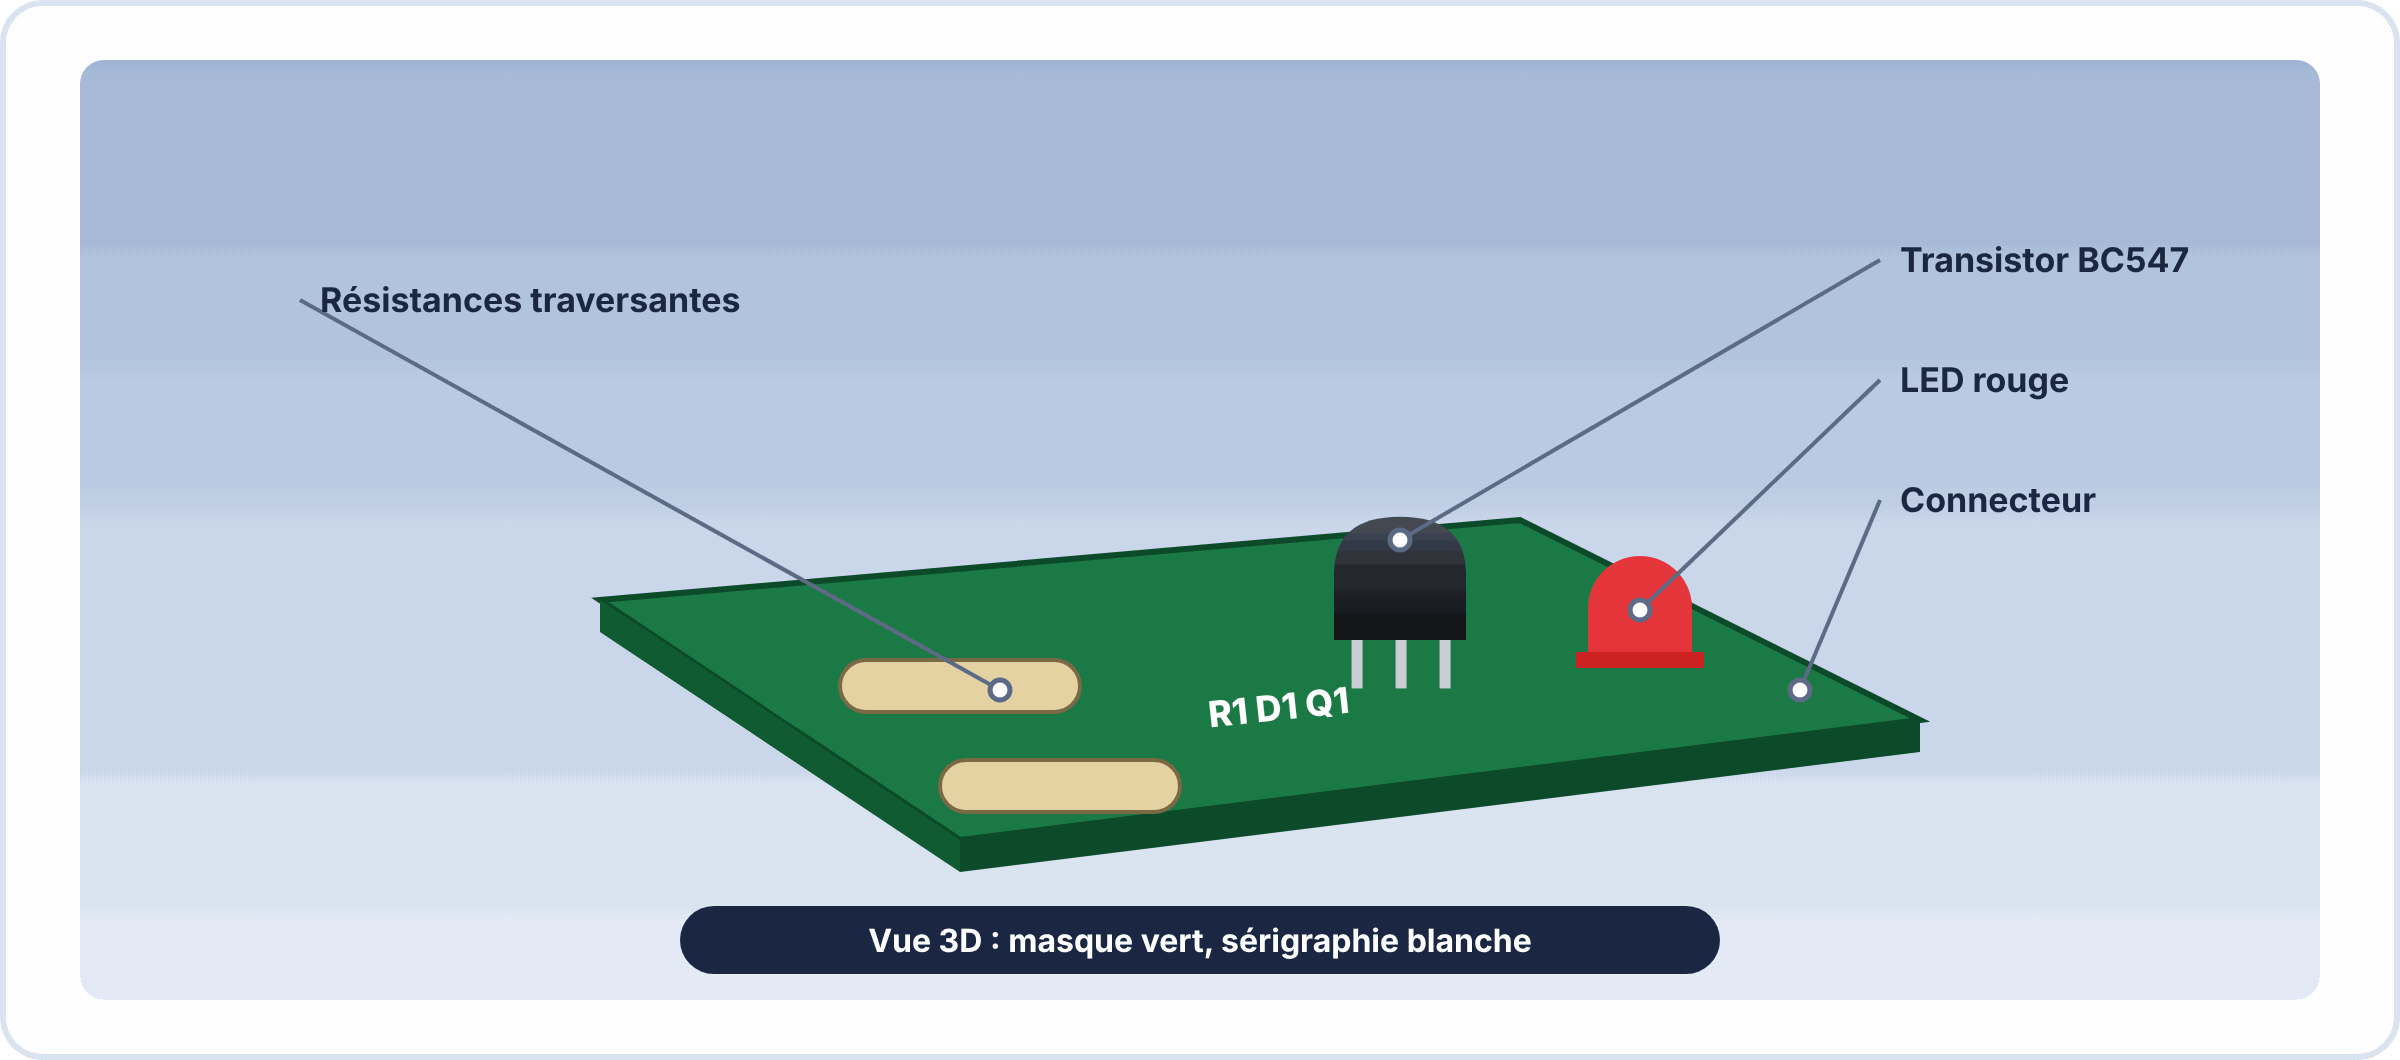
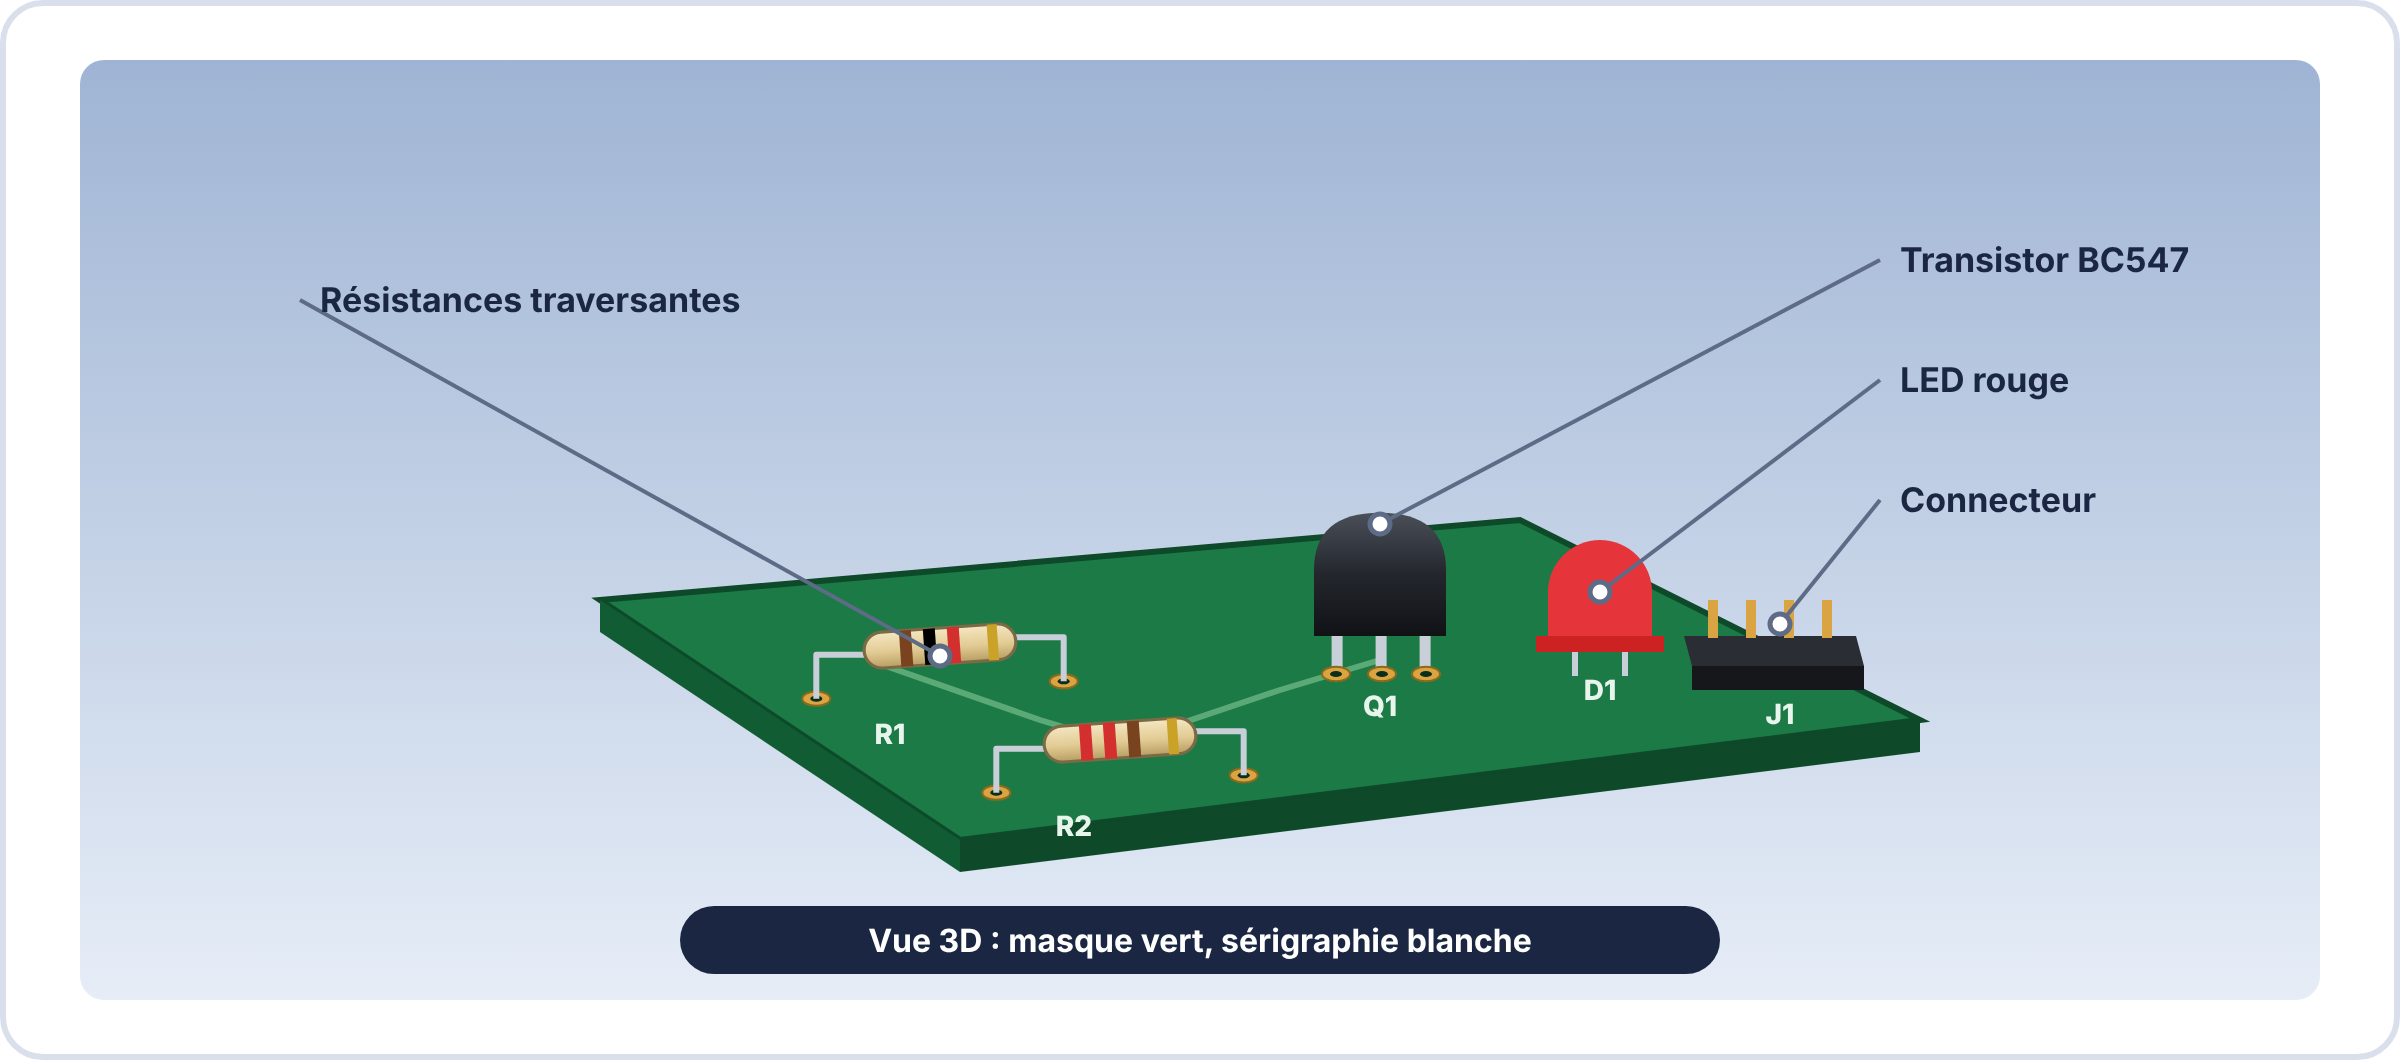
Vue 3D KiCad : résistances traversantes redessinées (corps cylindrique à bandes, pattes dans les trous), transistor/LED/connecteur à pattes dans la carte
Claude-Session: https://claude.ai/code/session_018Ln2Xo12prChdSPrkdSn9D

diff --git a/outils/illustrations-e2/figs_final.py b/outils/illustrations-e2/figs_final.py
@@ -79,15 +79,36 @@ def f_kicad_drc():
 
 
 def f_kicad_3d():
-    o = f'<rect x="40" y="30" width="1120" height="470" rx="12" fill="url(#bg3d)"/><defs><linearGradient id="bg3d" x1="0" y1="0" x2="0" y2="1"><stop offset="0" stop-color="#9fb4d4"/><stop offset="1" stop-color="#e6edf7"/></linearGradient></defs>'
+    o = f'<rect x="40" y="30" width="1120" height="470" rx="12" fill="url(#bg3d)"/><defs><linearGradient id="bg3d" x1="0" y1="0" x2="0" y2="1"><stop offset="0" stop-color="#9fb4d4"/><stop offset="1" stop-color="#e6edf7"/></linearGradient><linearGradient id="rbody" x1="0" y1="0" x2="0" y2="1"><stop offset="0" stop-color="#f4e7c3"/><stop offset=".55" stop-color="#e2cb93"/><stop offset="1" stop-color="#b79d62"/></linearGradient></defs>'
+    # carte (dessus + tranches)
     o += '<polygon points="300,300 760,260 960,360 480,420" fill="#1c7a46" stroke="#0e4a2a" stroke-width="3"/><polygon points="300,300 480,420 480,436 300,316" fill="#115c33"/><polygon points="480,420 960,360 960,376 480,436" fill="#0e4a2a"/>'
-    o += T(640, 360, "R1   D1   Q1", 18, 800, "#e8f5ec", extra='transform="rotate(-6 640 360)"')
-    def cyl(x, y, w, h, c): return f'<rect x="{x}" y="{y}" width="{w}" height="{h}" rx="{h/2}" fill="{c}" stroke="#7a6a45" stroke-width="2"/>'
-    o += cyl(420, 330, 120, 26, "#e6d3a3") + cyl(470, 380, 120, 26, "#e6d3a3")
-    o += g(700, 320, '<path d="M-30,0 L-30,-30 Q-30,-56 0,-56 Q30,-56 30,-30 L30,0 Z" fill="url(#black)"/><rect x="-22" y="0" width="5" height="22" fill="#c9cfd8"/><rect x="-2" y="0" width="5" height="22" fill="#c9cfd8"/><rect x="18" y="0" width="5" height="22" fill="#c9cfd8"/>', 1.1)
-    o += g(820, 330, '<path d="M-26,0 L-26,-26 A26,26 0 0 1 26,-26 L26,0 Z" fill="#e5353b"/><rect x="-32" y="-4" width="64" height="8" fill="#c22"/>', 1.0)
-    o += f'<rect x="860" y="300" width="80" height="30" fill="#222" transform="skewY(18)"/>' + "".join(f'<rect x="{868+i*17}" y="{302+i*0}" width="8" height="10" fill="#d9a441" transform="skewY(18)"/>' for i in range(4))
-    o += callout(700, 270, 940, 130, "Transistor BC547", "start", 17, bold=True) + callout(820, 305, 940, 190, "LED rouge", "start", 17, bold=True) + callout(500, 345, 150, 150, "Résistances traversantes", "start", 17, bold=True) + callout(900, 345, 940, 250, "Connecteur", "start", 17, bold=True)
+    # pistes (cuivre sous masque) et pastilles
+    o += '<g opacity=".55"><path d="M440,332 L520,360 L560,372" stroke="#8fd19e" stroke-width="3" fill="none"/><path d="M560,372 L640,345 L690,330" stroke="#8fd19e" stroke-width="3" fill="none"/></g>'
+    def hole(x, y): return f'<ellipse cx="{x}" cy="{y}" rx="7" ry="3.6" fill="#d9a441" stroke="#8a6a1c" stroke-width="1"/><ellipse cx="{x}" cy="{y}" rx="3" ry="1.5" fill="#0b2d1a"/>'
+    def resistor(cx, cy, ang, c1, c2, c3):
+        """résistance traversante : corps cylindrique + 2 pattes plongeant dans les trous"""
+        import math as m
+        dx, dy = m.cos(m.radians(ang)), m.sin(m.radians(ang))
+        L = 62; lift = 22
+        x1, y1, x2, y2 = cx - dx * L, cy - dy * L, cx + dx * L, cy + dy * L
+        r = hole(x1, y1) + hole(x2, y2)
+        r += f'<path d="M{x1},{y1} V{y1-lift} H{x1+dx*24} M{x2},{y2} V{y2-lift} H{x2-dx*24}" stroke="#c9cfd8" stroke-width="3" fill="none" stroke-linejoin="round"/>'
+        r += f'<g transform="translate({cx},{cy-lift}) rotate({ang})"><rect x="-38" y="-9" width="76" height="18" rx="9" fill="url(#rbody)" stroke="#7a6a45" stroke-width="1.6"/>'
+        for bx, col in ((-20, c1), (-8, c2), (4, c3)): r += f'<rect x="{bx}" y="-9" width="6" height="18" fill="{col}"/>'
+        r += '<rect x="24" y="-9" width="5" height="18" fill="#c9a227"/></g>'
+        return r
+    o += resistor(470, 345, -4, "#7a4320", "#000", "#d32f2f") + resistor(560, 392, -4, "#d32f2f", "#d32f2f", "#7a4320")
+    # transistor TO-92 (pattes dans la carte)
+    o += g(690, 318, '<path d="M-30,0 L-30,-30 Q-30,-56 0,-56 Q30,-56 30,-30 L30,0 Z" fill="url(#black)"/><rect x="-22" y="0" width="5" height="16" fill="#c9cfd8"/><rect x="-2" y="0" width="5" height="16" fill="#c9cfd8"/><rect x="18" y="0" width="5" height="16" fill="#c9cfd8"/>', 1.1)
+    o += hole(668, 337) + hole(691, 337) + hole(713, 337)
+    # LED rouge
+    o += g(800, 322, '<path d="M-26,0 L-26,-26 A26,26 0 0 1 26,-26 L26,0 Z" fill="#e5353b"/><rect x="-32" y="-4" width="64" height="8" fill="#c22"/><rect x="-14" y="4" width="3" height="12" fill="#c9cfd8"/><rect x="11" y="4" width="3" height="12" fill="#c9cfd8"/>', 1.0)
+    # connecteur 4 broches (barrette sécable)
+    o += '<polygon points="842,318 928,318 932,333 846,333" fill="#2a2d33"/><polygon points="846,333 932,333 932,345 846,345" fill="#15171b"/>' + "".join(f'<rect x="{854+i*19}" y="{300}" width="5" height="19" fill="#d9a441"/>' for i in range(4))
+    # sérigraphie
+    o += T(445, 372, "R1", 14, 800, "#e8f5ec") + T(537, 418, "R2", 14, 800, "#e8f5ec") + T(690, 358, "Q1", 14, 800, "#e8f5ec") + T(800, 350, "D1", 14, 800, "#e8f5ec") + T(890, 362, "J1", 14, 800, "#e8f5ec")
+    # légendes
+    o += callout(470, 328, 150, 150, "Résistances traversantes", "start", 17, bold=True) + callout(690, 262, 940, 130, "Transistor BC547", "start", 17, bold=True) + callout(800, 296, 940, 190, "LED rouge", "start", 17, bold=True) + callout(890, 312, 940, 250, "Connecteur", "start", 17, bold=True)
     o += chip(600, 470, "Vue 3D : masque vert, sérigraphie blanche", INK, w=520, size=16)
     return figure(W, 530, o)
 
